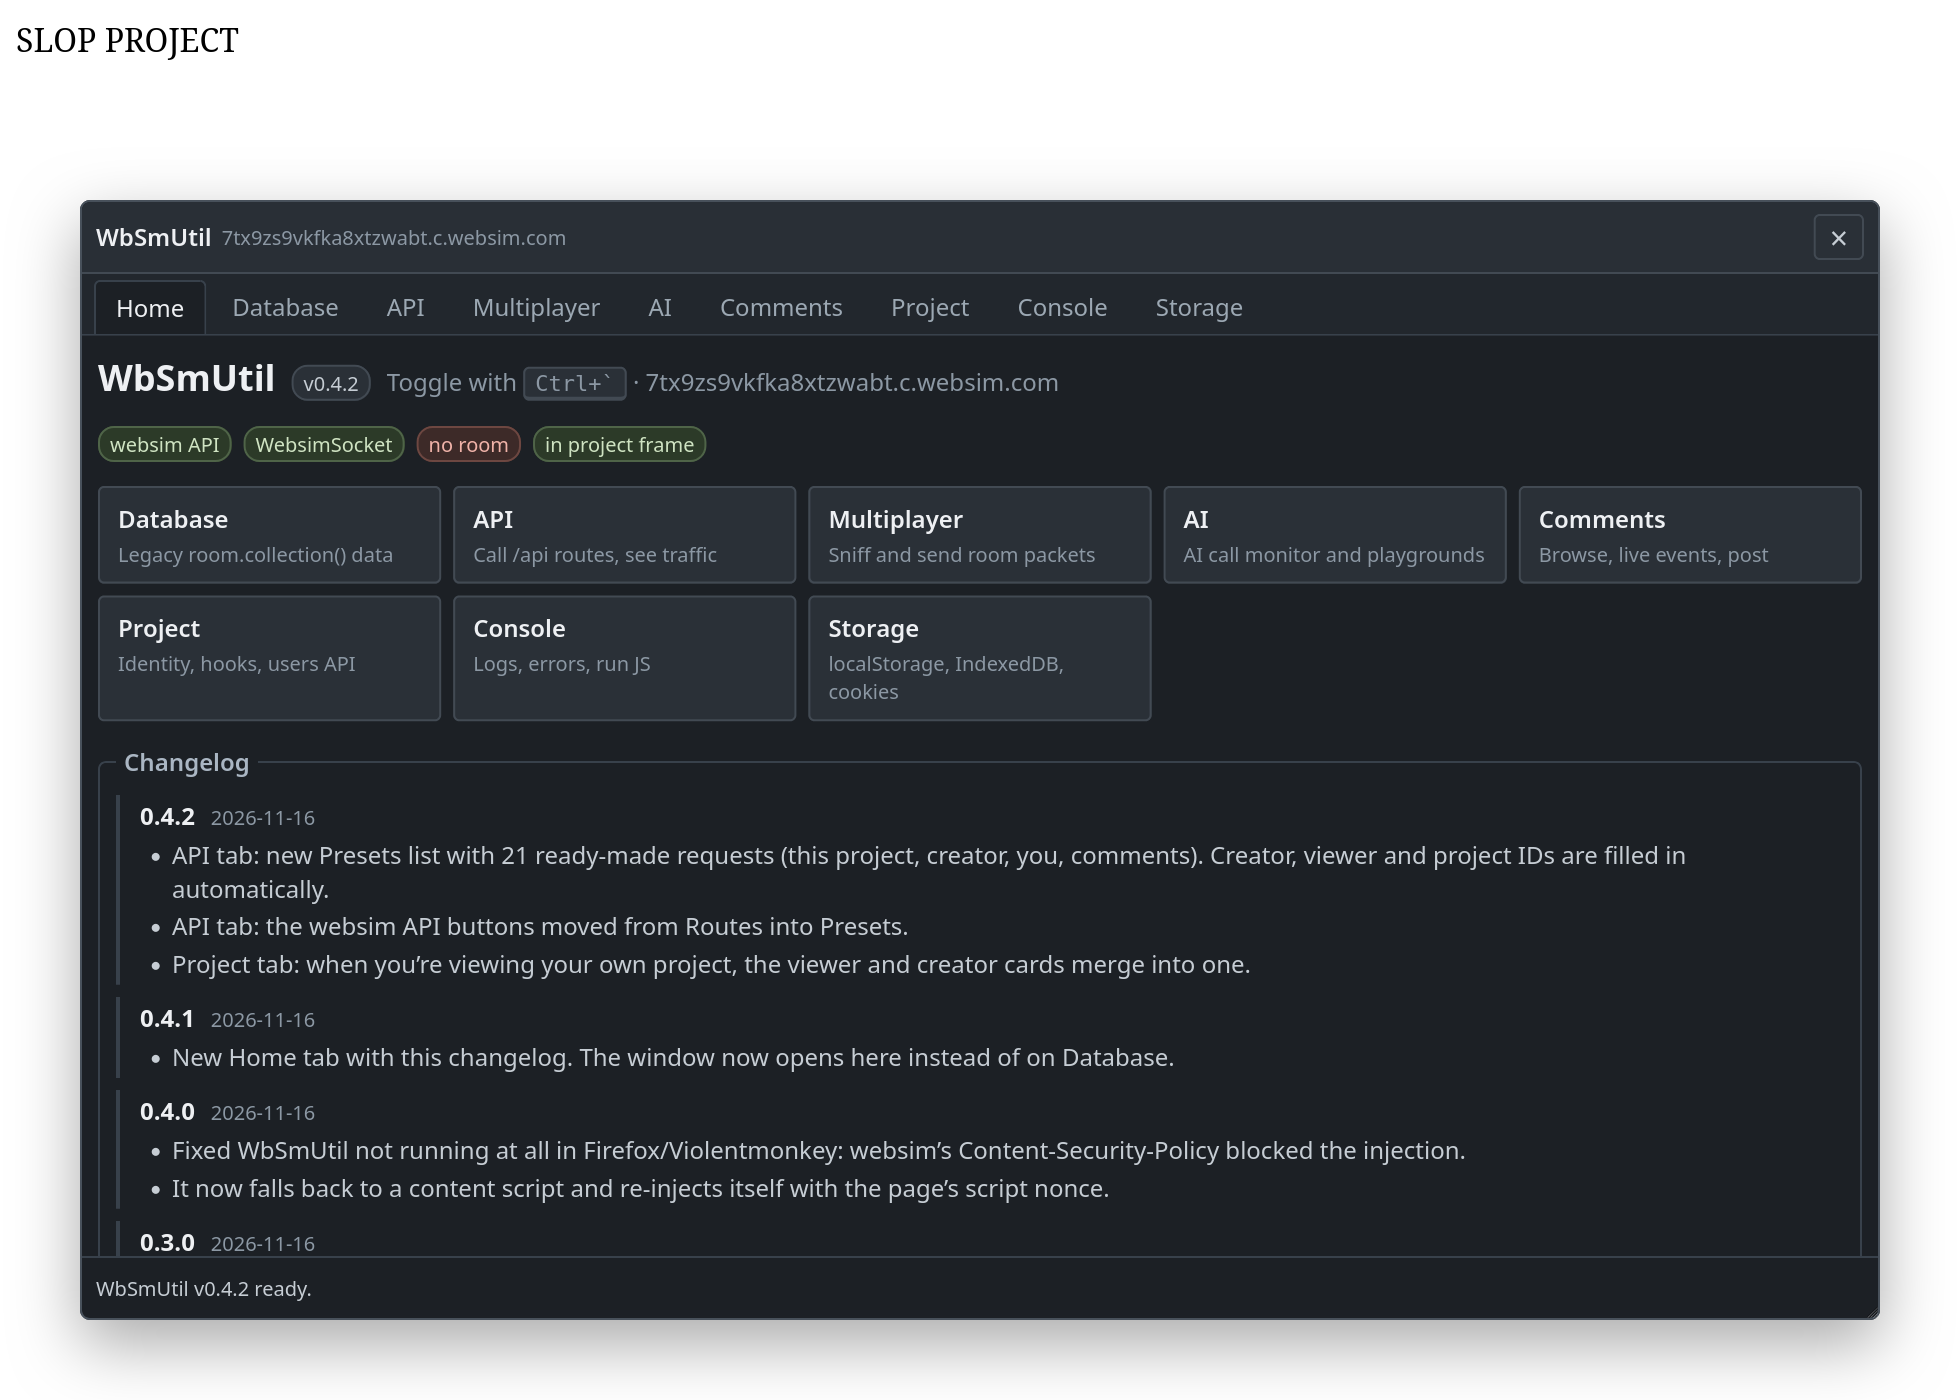
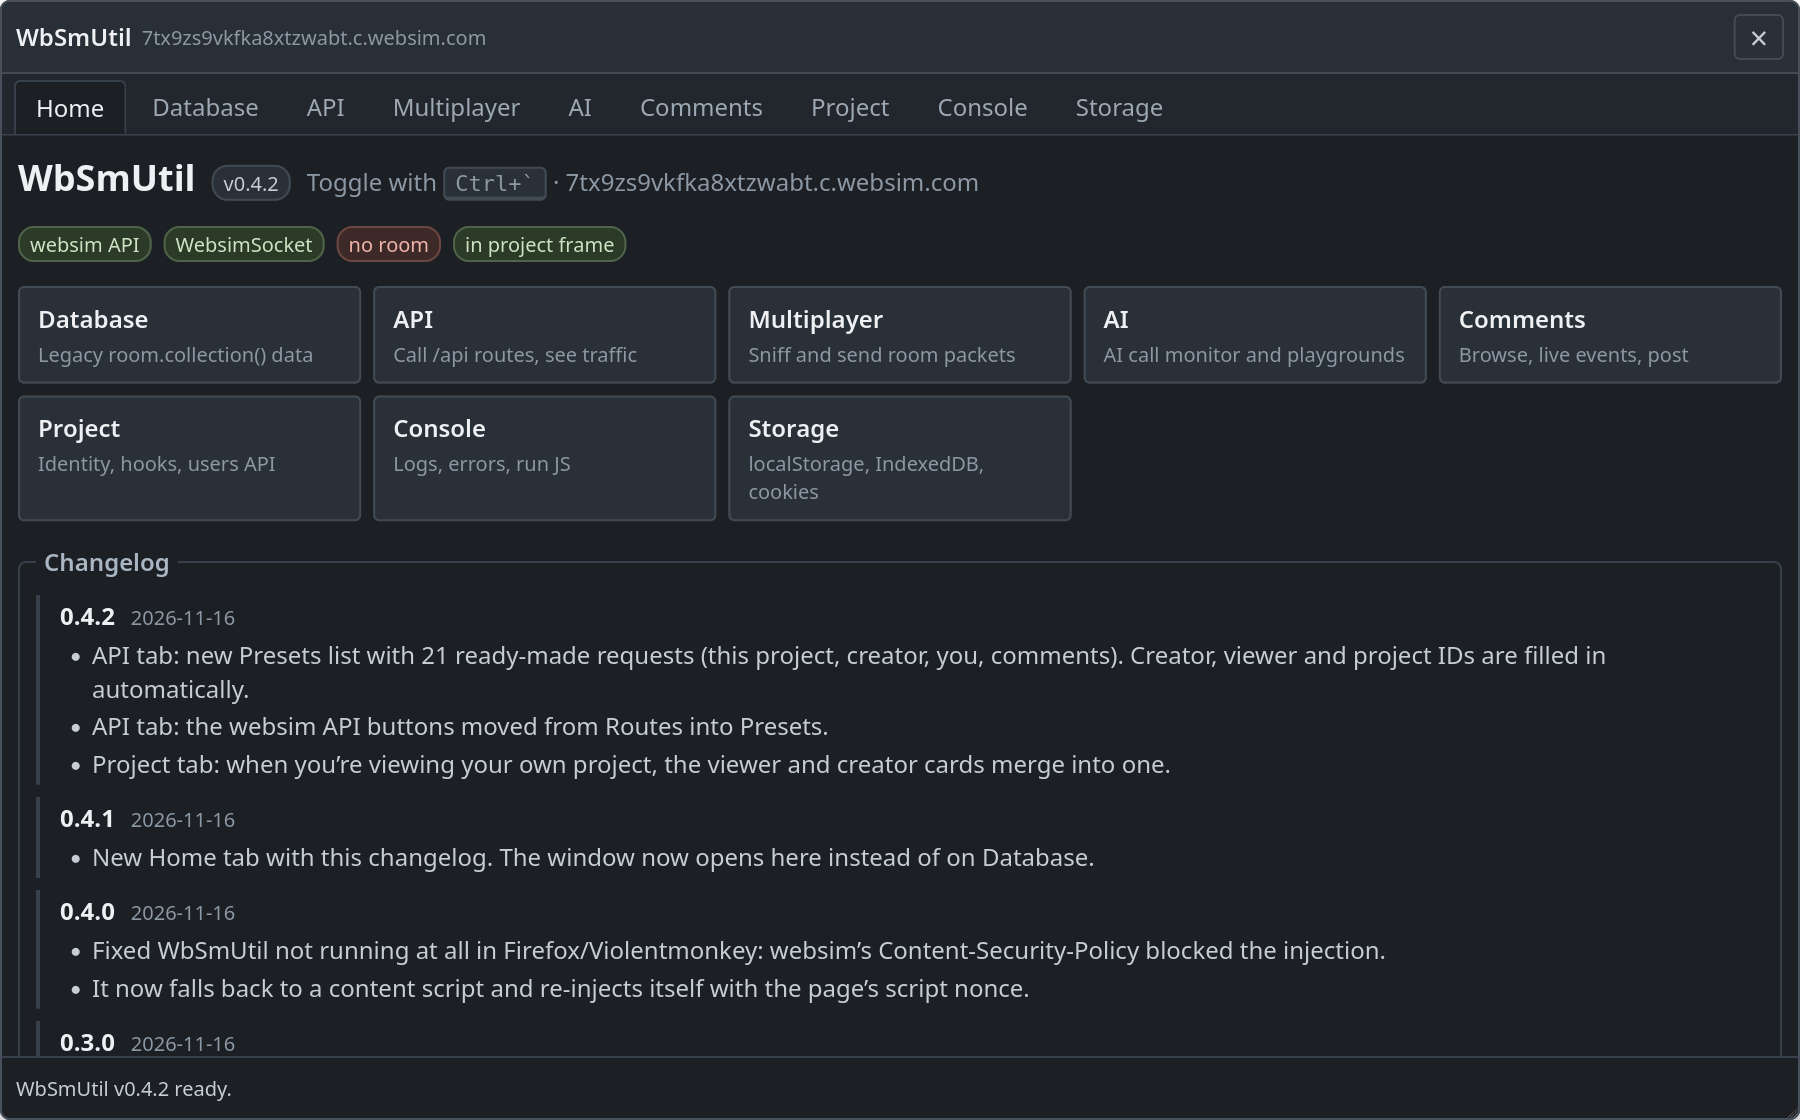
Crop hero screenshot to just the WbSmUtil window

diff --git a/docs/index.html b/docs/index.html
@@ -162,7 +162,7 @@
         <div class="win-bar"><b>WbSmUtil</b><span>7tx9zs9vkfka8xtzwabt.c.websim.com</span></div>
         <div class="win-tabs" role="tablist" aria-label="WbSmUtil tabs" id="tabs"></div>
         <div class="win-body">
-          <div class="win-shot"><img id="shot" src="img/hero.png" alt="" width="1960" height="1400"></div>
+          <div class="win-shot"><img id="shot" src="img/hero.png" alt="" width="1800" height="1120"></div>
           <div class="win-info" id="info" aria-live="polite"></div>
         </div>
       </div>
@@ -256,7 +256,7 @@ src/changelog.ts       shown on the Home tab</code></pre>
 <script>
   // Tour: each tab swaps in a real screenshot of that tab and a short note.
   const TOUR = [
-    { id: 'home', label: 'Home', img: 'img/hero.png', alt: 'WbSmUtil open over a websim project, on its Home tab',
+    { id: 'home', label: 'Home', img: 'img/hero.png', alt: 'The WbSmUtil window on its Home tab',
       title: 'Opens right inside your project',
       text: 'Press Ctrl+` in a websim project. Home shows what the page has (websim API, WebsimSocket, a room) and links to every tab.',
       points: ['Status badges at a glance', 'Shortcuts to every tab', 'Built-in changelog'] },

diff --git a/README.md b/README.md
@@ -2,7 +2,7 @@
 
 Dev toolkit userscript for websim projects. **[Docs and demo](https://1stwbsm.github.io/WbSmUtil/)**
 
-![WbSmUtil open inside a websim project](docs/img/hero.png)
+![The WbSmUtil window on its Home tab](docs/img/hero.png)
 
 ## Install and use
 
